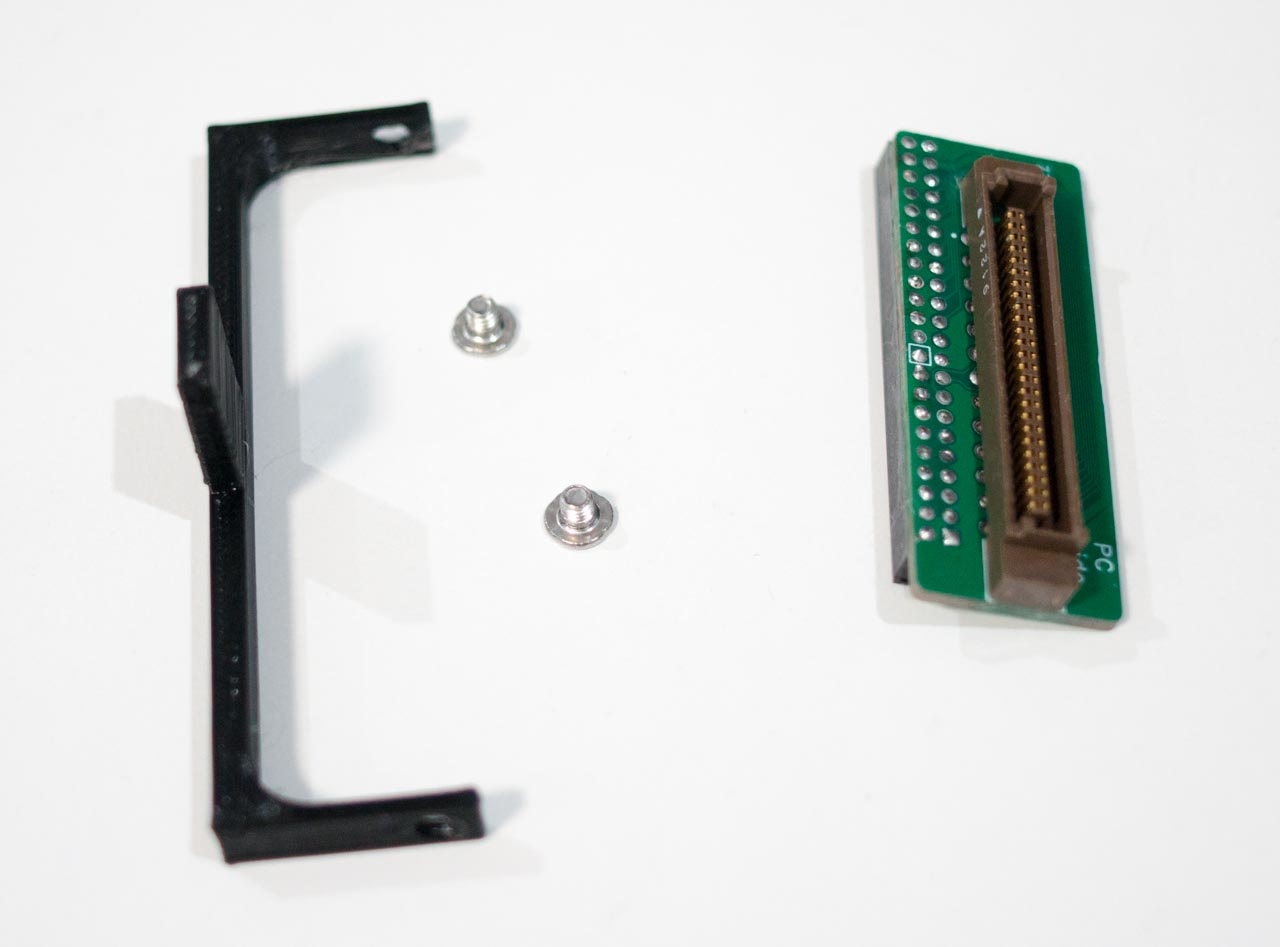
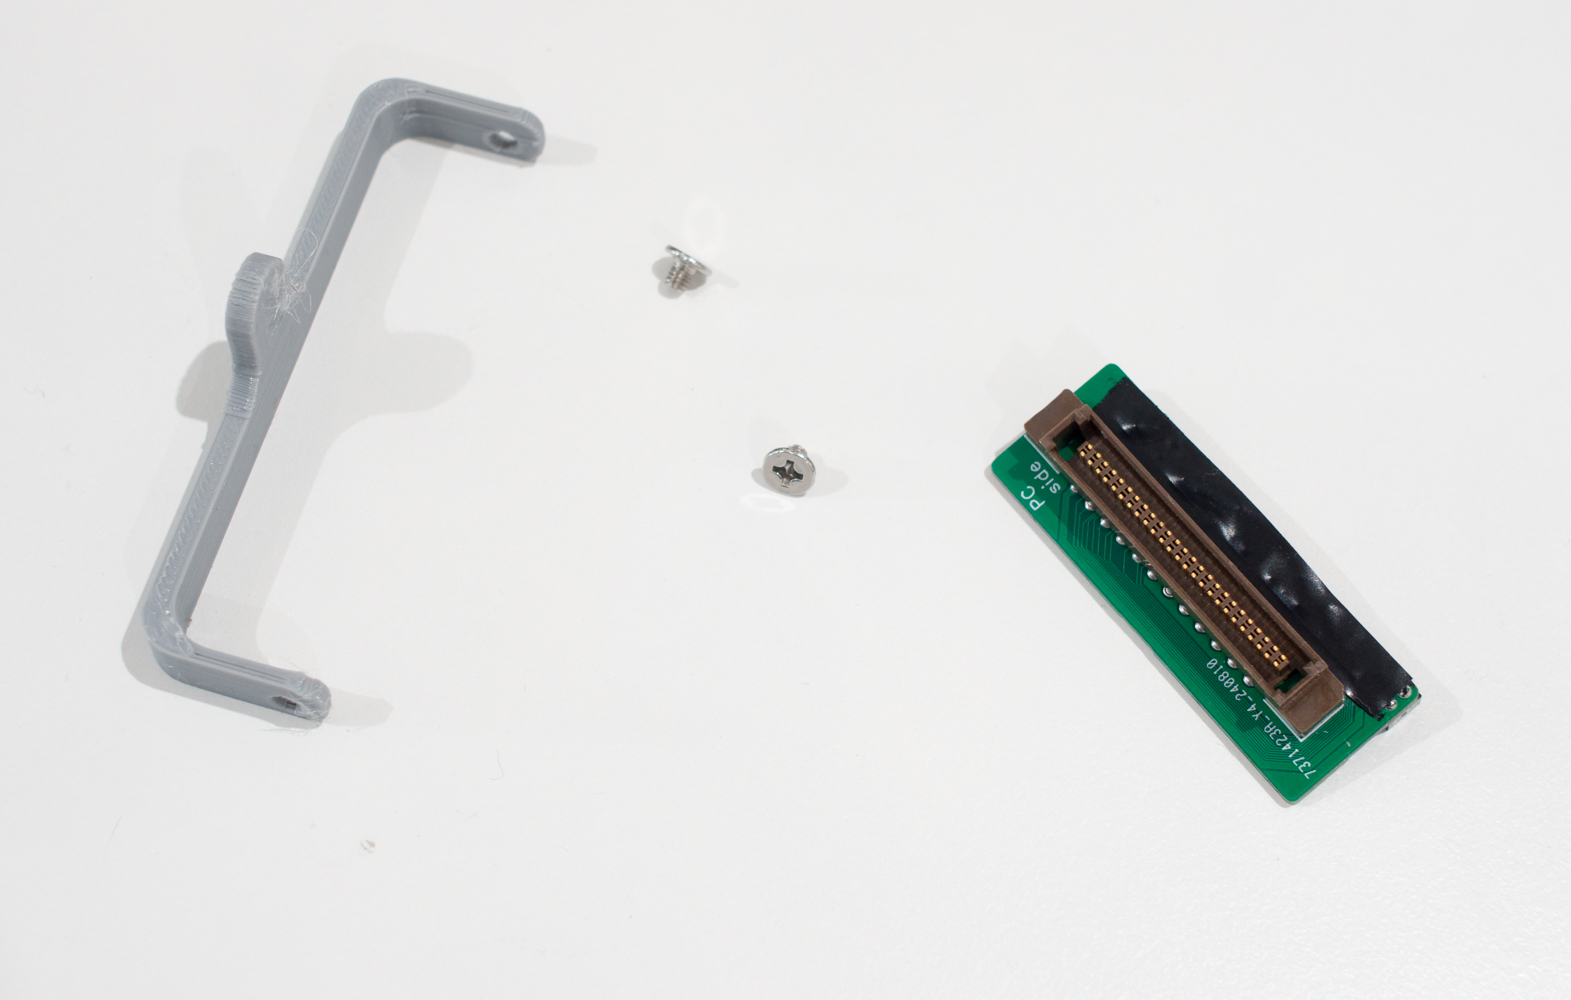
Updated LCEDA link

diff --git a/README.md b/README.md
@@ -2,7 +2,7 @@
 
 This adapter converts the Toshiba Tecra 500/510 series laptop's proprietary HDD connector, to a standard 2.5" IDE 44-pin HDD connector. You can use normal 2.5" HDD up to 17mm thickness in the Toshiba Tecra 500/510 laptops (but keep in mind that the laptop BIOS does not support HDD larger than a certain size, I think it is 10GB? Just a disclaimer).
 
-I built a couple of extra adapters and offered them for sale on [Tindie](https://www.tindie.com/products/35777/).
+I built a couple of extra adapters and offered them for sale on [Tindie](https://www.tindie.com/products/35777/) and [eBay](https://www.ebay.com/itm/226378466337).
 
 This design was inspired by the discussions in [this vogons post](https://www.vogons.org/viewtopic.php?f=46&t=83221). Thanks for all the previous contributors! If you have any suggestions to this adapter, you can reply to that post on vogons.
 
@@ -29,7 +29,7 @@ Use after dremeling off the flanges on both ends:
 
 (BTW, the laptop side's connector seems to be KEL 8901-050-177S-A)
 
-I have provided the PCB design for both Through-hole and SMT versions in the `pcb/` folder. You can use the Gerber file to order PCBs from your selected PCB factory. Choose the version (Through-hole vs. SMT) based on the connector type you have bought. The SMT soldering would be more difficult by hand, a hotair station is recommended. The PCB is designed using LCEDA (an online PCB drawing tool), I'll pulicize the LCEDA project when it is stable.
+I have provided the PCB design for both Through-hole and SMT versions in the `pcb/` folder. You can use the Gerber file to order PCBs from your selected PCB factory. Choose the version (Through-hole vs. SMT) based on the connector type you have bought. The SMT soldering would be more difficult by hand, a hotair station is recommended. The PCB is designed using LCEDA (an online PCB drawing tool), you can modify it from [here](https://oshwhub.com/chen_xin_ming/toshiba-laptop-hdd-connector).
 
 I've also included a 3d-printed HDD caddy design. The stl file is at the `3d_print/` folder. The 3d model is designed using Tinkercad. You can remix it [here](https://www.tinkercad.com/things/9fCpsQH187o-toshiba-tecra-510cdt-hdd-caddy) if you want. Print using PETG for better heat resistance, because HDD becomes hot when operating.
 
